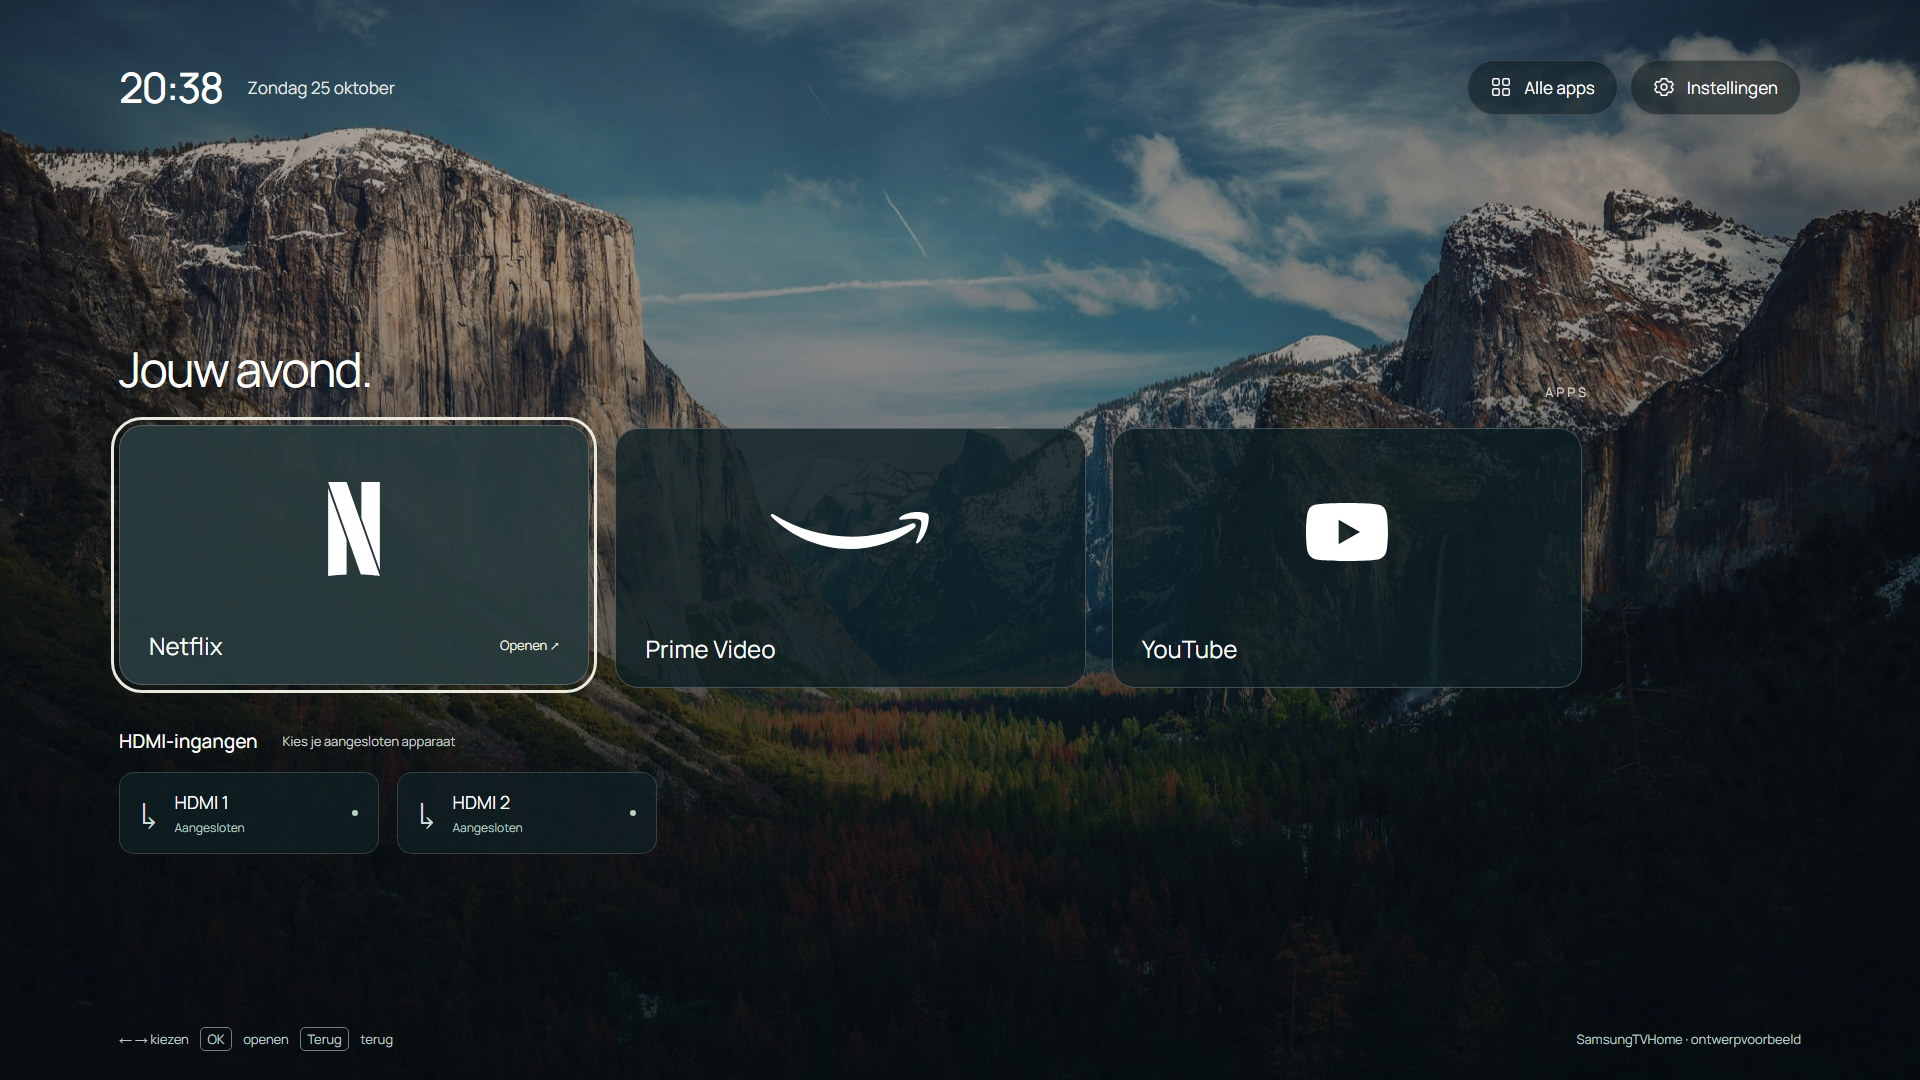
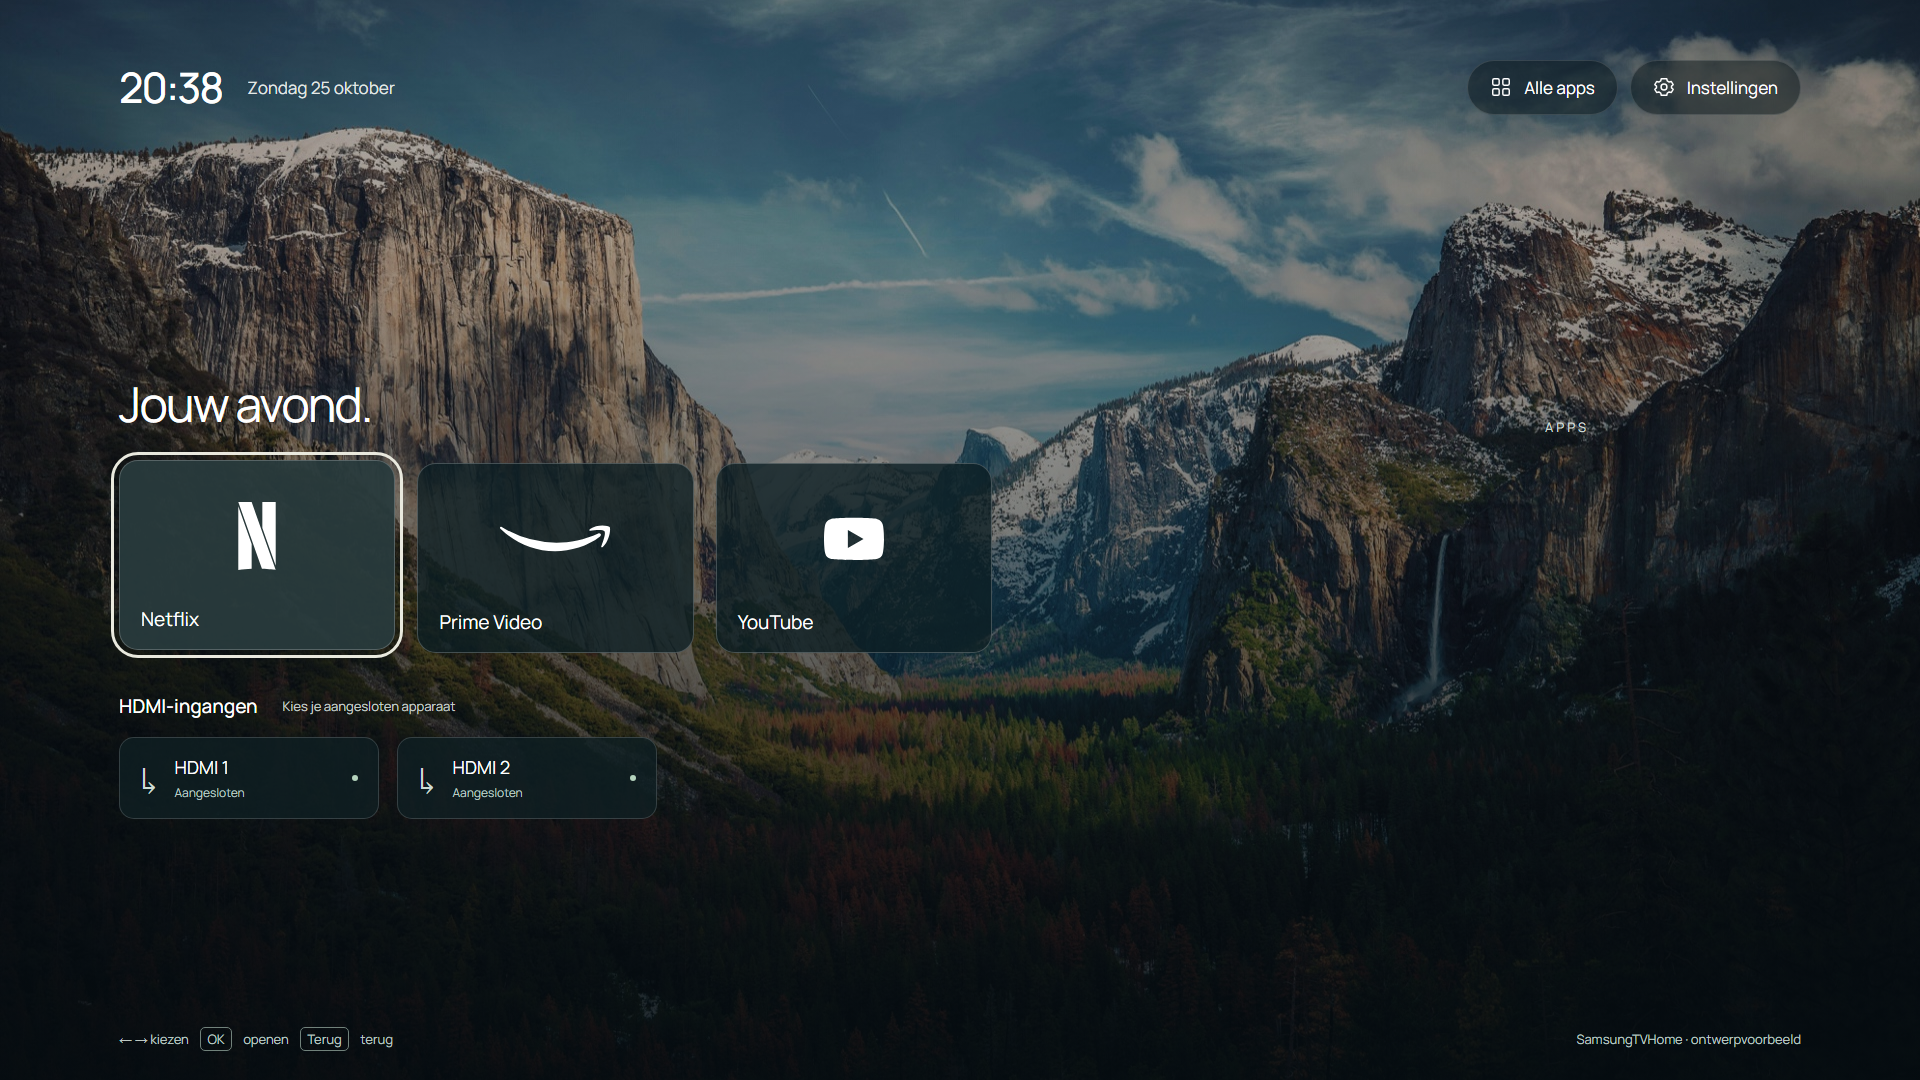
Reduce preview tiles to fit five apps per row

Changed region(s): [[0.0625, 0.3361, 0.8125, 0.7944], [0.7812, 0.4889, 0.8438, 0.55], [0.3125, 0.6722, 0.3438, 0.7028]]

diff --git a/design/preview.css b/design/preview.css
@@ -1,1 +1,8 @@
 @font-face{font-family:Manrope;src:url('assets/cleanframe/app/assets/manrope.woff2')}*{box-sizing:border-box}html,body{margin:0;background:#111b1d;color:#fff;font-family:Manrope,Arial,sans-serif}.scene{position:relative;min-height:100vh;overflow:hidden}.wallpaper,.shade{position:absolute;inset:0;width:100%;height:100%;object-fit:cover}.shade{background:linear-gradient(180deg,rgba(4,12,16,.28),rgba(4,12,16,.28) 22%,rgba(4,12,16,.65) 65%,rgba(4,12,16,.86))}main{position:relative;min-height:100vh;padding:5.4vh 6.2vw 3vh;display:flex;flex-direction:column}button{font:inherit;color:inherit;border:0;cursor:pointer}header{display:flex;align-items:center;justify-content:space-between}.time{display:flex;align-items:center;gap:25px}.time time{font-size:42px;font-weight:500;letter-spacing:-1.8px}.time>span{font-size:17px;color:#e3e8e6}nav{display:flex;gap:12px}nav button{display:flex;align-items:center;gap:12px;padding:15px 22px;background:rgba(11,24,28,.5);border:1px solid rgba(255,255,255,.13);border-radius:40px;font-size:17px}nav img{width:22px;height:22px;filter:brightness(0) invert(1)}.content{width:100%;max-width:1470px;margin:auto 0;padding-top:9vh;padding-bottom:6vh}.section-heading{display:flex;align-items:end;justify-content:space-between;margin-bottom:27px}.section-heading h1{font-weight:400;font-size:48px;letter-spacing:-1.8px;margin:0}.section-heading>span{font-size:13px;letter-spacing:3px;color:#d1dcd9}.apps{display:flex;gap:26px}.app{width:32%;height:226px;text-align:left;background:rgba(13,30,36,.79);border:1px solid rgba(255,255,255,.22);border-radius:23px;padding:28px 29px 22px;display:flex;flex-direction:column;justify-content:space-between;transition:background .15s,transform .15s}.app.selected,.app:focus-visible{background:rgba(40,58,61,.94);outline:3px solid #e9e9de;outline-offset:5px;transform:translateY(-3px)}.logo{display:flex;align-items:center;justify-content:center;height:125px}.logo img{filter:brightness(0) invert(1);max-width:165px;max-height:82px}.logo .netflix{max-height:94px}.logo .youtube{max-width:105px}.app-bottom{display:flex;align-items:center;justify-content:space-between;font-size:20px}.open{font-size:13px;color:#f1f2e8;opacity:0}.selected .open{opacity:1}.input-heading{display:flex;gap:25px;align-items:center;margin:40px 0 18px}.input-heading h2{font-size:19px;font-weight:500;margin:0}.input-heading>span{font-size:13px;color:#c4ceca}.inputs{display:flex;gap:18px}.inputs button{display:flex;align-items:center;gap:18px;min-width:260px;padding:17px 20px;background:rgba(15,31,35,.8);border:1px solid rgba(255,255,255,.16);border-radius:15px;font-size:18px;text-align:left}.port{font-size:29px;color:#cddbd5}.inputs small{display:block;font-size:12px;color:#bac9c3;margin-top:5px}.dot{width:6px;height:6px;background:#b5d4bd;border-radius:50%;margin-left:auto}footer{display:flex;justify-content:space-between;align-items:center;color:#bdc8c2;font-size:13px;gap:20px}footer b,.back{font-weight:400;border:1px solid #71827b;border-radius:5px;padding:2px 6px;margin:0 9px}#notice{max-width:50%;text-align:right}button:focus-visible{outline:3px solid #eee9da;outline-offset:5px}#panel[hidden]{display:none}#panel{position:absolute;inset:0;background:rgba(5,13,17,.95);z-index:3;padding:5vh 6vw}.panel-inner{max-width:1500px;margin:0 auto}.panel-head{display:flex;align-items:center;justify-content:space-between}.panel-head h2{font-size:30px;font-weight:400}.panel-head button{background:#354a48;padding:12px 20px;border-radius:25px}#panel-description{color:#b6c7be;margin-bottom:25px}#gallery{display:grid;grid-template-columns:repeat(5,1fr);gap:20px}.photo-choice{background:#253c3e;border:2px solid transparent;border-radius:12px;padding:7px;text-align:left}.photo-choice[aria-pressed=true]{border-color:#e3e8cd}.photo-choice img{display:block;width:100%;aspect-ratio:16/9;object-fit:cover;border-radius:6px}.photo-choice span{display:block;padding:8px 3px;font-size:13px}#gallery p{font-size:22px}.source-note{margin-top:30px;font-size:12px;color:#b7c8c0}@media(min-width:1700px){.app{height:260px}.content{padding-top:10vh}.logo{height:150px}.app-bottom{font-size:24px}}@media(max-width:900px){main{padding:30px}.time{gap:15px}.time time{font-size:30px}.time>span{display:none}nav button{padding:11px 14px;font-size:13px;gap:7px}.section-heading h1{font-size:34px}.content{padding:65px 0}.apps{gap:16px}.app{height:185px;padding:18px}.logo img{max-height:65px;max-width:100px}.logo .netflix{max-height:70px}.logo .youtube{max-width:80px}.app-bottom{font-size:15px}.open{display:none}.inputs button{min-width:200px}.input-heading{margin-top:30px}footer{font-size:11px}#gallery{grid-template-columns:repeat(3,1fr)}}@media(max-width:500px){.scene,main{min-height:650px}main{padding:22px}.apps{gap:12px}.app{height:155px;padding:13px 10px}.logo img{max-width:65px;max-height:45px}.logo .youtube{max-width:55px}.logo .netflix{max-height:50px}.app-bottom{font-size:12px}.inputs{flex-wrap:wrap}.inputs button{min-width:0;flex:1;padding:13px;font-size:14px;gap:10px}.time time{font-size:25px}.input-heading{display:block}.input-heading>span{display:block;margin-top:8px}nav button{padding:9px}nav img{display:none}.section-heading h1{font-size:29px}.content{padding:60px 0 45px}footer{align-items:start;flex-direction:column}#notice{max-width:100%;text-align:left}#gallery{grid-template-columns:repeat(2,1fr)}#panel{overflow:auto}}@media(prefers-reduced-motion:reduce){.app{transition:none}}
+/* Compact tiles: five favorites fit on a TV row without scrolling. */
+.apps{gap:22px}.app{width:calc((100% - 88px)/5);height:174px;flex:none;padding:20px 21px 17px;border-radius:19px}.logo{height:95px}.logo img{max-width:115px;max-height:60px}.logo .netflix{max-height:68px}.logo .youtube{max-width:78px}.app-bottom{font-size:18px}.open{display:none}
+@media(min-width:1700px){.app{height:190px}.logo{height:110px}.app-bottom{font-size:19px}}
+@media(max-width:900px){.apps{gap:16px}.app{width:calc((100% - 64px)/5);height:145px;padding:15px 12px}.logo{height:80px}.logo img{max-width:75px;max-height:48px}.logo .netflix{max-height:55px}.logo .youtube{max-width:58px}.app-bottom{font-size:13px}}
+@media(max-width:650px){.apps{flex-wrap:wrap;gap:14px}.app{width:calc((100% - 28px)/3);height:145px}.logo img{max-width:70px}.app-bottom{font-size:13px}}
+
+.apps{flex-wrap:wrap}

diff --git a/design/README.md b/design/README.md
@@ -13,3 +13,5 @@ Ontwerpkeuzes om samen te bespreken:
 - Wel/geen titel Jouw avond.
 - Of HDMI alleen aangesloten bronnen toont, zoals de huidige app.
 - Instellingen is nu alleen een fotokiezer; de uiteindelijke instellingenindeling volgt later.
+
+Ontwerpupdate: kleinere tegels, maximaal vijf per rij op tv-formaat. Extra apps komen op een volgende rij. De eerste rij bevat nog de drie gekozen apps.
